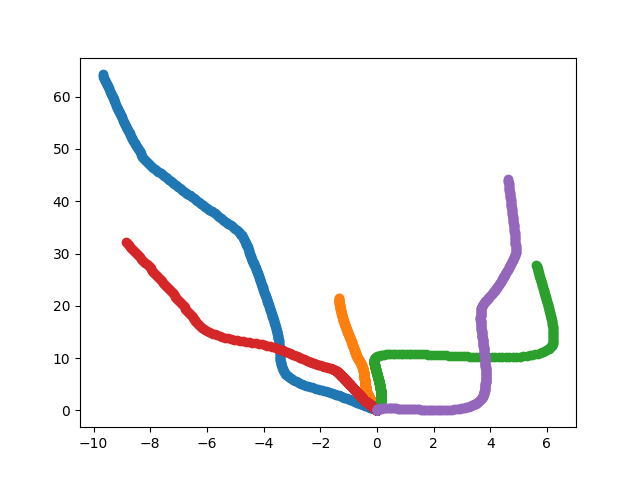
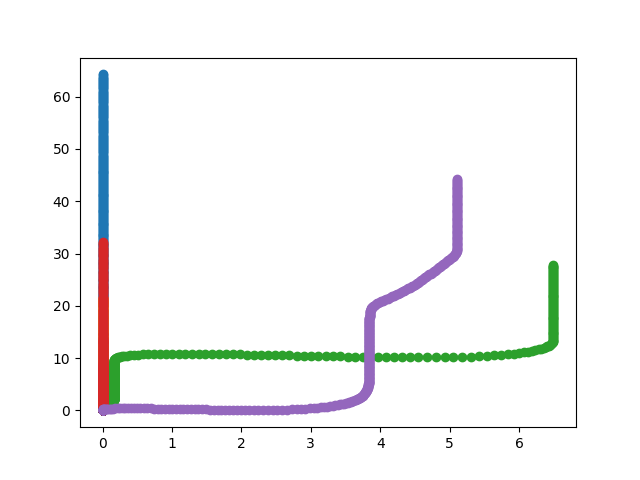
kalman filter class merged with main

diff --git a/algorithm/sensor_position_identifying.py b/algorithm/sensor_position_identifying.py
@@ -1,4 +1,5 @@
-from supportlib.data_types import Sensor, SensorData
+import numpy as np
+from supportlib.data_types import Sensor, SensorData, SensorPosition
 from supportlib.sensor_position_finding import SensorPositionFinder, SensorPositionRequester
 from algorithm.kinematics_model import Body
 from algorithm.kalman_filter import KalmanFilter
@@ -9,19 +10,41 @@ class SensorPositionIdentifier(SensorPositionFinder):
                  position_requester: SensorPositionRequester):
         super().__init__(position_requester)
         self.body = Body()
-        self.kalman_filter = KalmanFilter()
+        self.kalman_filter = dict()
+        self.sensor_positions = dict()
 
     def on_new_sensor_sample(self,
                              data_dict: dict[Sensor, SensorData]):
-        data_dict = self.kalman_filter.filter(data_dict)
+        
+        if len(self.kalman_filter) == 0:
+            self.on_first_row(data_dict)
 
         for sensor, sensor_data in data_dict.items():
+            self.iterate_kalman_filter(sensor, sensor_data)
+
             # TODO: identify the sensor position based on the sensor data
             sensor_position = None
 
             # TODO: call on_sensor_position_found when an unknown sensor position is identified
-            if sensor_position not in self.sensor_positions:
+            if sensor_position not in self.sensor_positions and isinstance(sensor_position, SensorPosition):
                 self.position_requester.on_sensor_position_found(sensor, sensor_position)
 
             # TODO: call on_finish when all sensor positions are identified
-            self.position_requester.on_finish()
+            # self.position_requester.on_finish()
+
+    def on_first_row(self, 
+                     data_dict: dict[Sensor, SensorData]):
+        for sensor in data_dict.keys():
+            self.kalman_filter[sensor] = (KalmanFilter(), KalmanFilter())
+
+    def iterate_kalman_filter(self, 
+                              sensor: Sensor, 
+                              sensor_data: SensorData):
+        self.kalman_filter[sensor][0].update_state_space_system(np.maximum(0., sensor_data[0][0]), 
+                                                sensor_data[1])
+        self.kalman_filter[sensor][1].update_state_space_system(-sensor_data[0][2], 
+                                                sensor_data[1])
+        for kalman_filter in self.kalman_filter[sensor]:
+            kalman_filter.predict()
+            kalman_filter.update()
+            kalman_filter.append_coordinates()

diff --git a/algorithm/kalman_filter.py b/algorithm/kalman_filter.py
@@ -13,16 +13,29 @@ class KalmanFilter:
     def __init__(self,
                  dt=0.02):
         """Define initial state conditions."""
+        self.dt = dt
         self.X = np.array([[0.0] , [0.0]])
         self.P = np.array([[999.0, 0.0] ,[0.0, 999.0]])
-        self.A = np.array([[1.0, dt], [0.0, 1.0]])
-        self.B = np.array([[0.5*dt**2], [dt]])
         self.H = np.array([[1.0, 0.0]])
         self.R = np.array([[1.0]])
         self.Q = np.array(np.eye(2)*5)
         self.Y = np.array([[0.]])
+        self.time = 0.0
+        self.coordinates = list()
+        self.upper_bound = list()
+        self.lower_bound = list()
 
-    def kf_predict(X, P, A, Q, B, U):
+    def update_state_space_system(self, vec_x, acc):
+        """Update state space system."""
+        self.time += self.dt
+        self.U = np.array([[acc]])
+        self.A = np.array([[1.0, self.dt*vec_x], [0.0, 1.0]])
+        self.B = np.array([[(0.5*self.dt**2)*vec_x], [self.dt]])
+
+    def update_measurement_estimate(self):
+        self.Y = self.H @ (self.A @ self.X + self.B @ self.U)
+    
+    def predict(self):
         """
         X : The mean state estimate of the previous step (k-1) - shape(m,1)
         P : The state covariance of previous step (k-1) - shape(m,m)
@@ -31,20 +44,22 @@ class KalmanFilter:
         B : The input effect matrix - shape(p, m)
         U : The control input - shape(q,1)
         """
-        X = A @ X + B @ U
-        P = A @ P @ A.T + Q
-        return(X,P)
+        self.X = self.A @ self.X + self.B @ self.U
+        self.P = self.A @ self.P @ self.A.T + self.Q
 
-    def kf_update(X, P, Y, H, R):
+    def update(self):
         """
         K : the Kalman Gain matrix
         IS : the Covariance or predictive mean of Y
         """
-        IS = H @ P @ H.T + R
-        K = P @ H.T @ inv(IS)
-        X = X + K @ (Y- H @ X)
-        P = P - K @ IS @ K.T
-        # P = P - K @ H @ P
-        return (X,P)
+        IS = self.H @ self.P @ self.H.T + self.R
+        K = self.P @ self.H.T @ inv(IS)
+        self.X = self.X + K @ (self.Y- self.H @ self.X)
+        # self.P = self.P - K @ IS @ K.T
+        self.P = self.P - K @ self.H @ self.P
     
+    def append_coordinates(self):
+        self.coordinates.append(self.X[0].item())
+        self.upper_bound.append(self.X[0].item()+sqrt(self.P[0][0]).item())
+        self.lower_bound.append(self.X[0].item()-sqrt(self.P[0][0]).item())
 

diff --git a/algorithm/kinematics_model.py b/algorithm/kinematics_model.py
@@ -52,5 +52,5 @@ class Body:
             elif limb.position == SensorPosition.CHEST:
                 for length in limb.lengths:
                     for _ in np.linspace(0, np.pi/2, 50):
-                        limb.movement.append((0.))
+                        limb.movement.append((0.)) # TODO: change chest coordinates to comply with kalman filter output
                         #TODO: add noise to the movement

diff --git a/algorithm/kalman_test.py b/algorithm/kalman_test.py
@@ -33,6 +33,7 @@ def kf_update(X, P, Y, H, R):
 #
 
 sensor_data = pd.read_csv('resources/sensor_data.csv')
+sensor_data['vec_x'] = sensor_data['vec_x'].apply(lambda x: 0. if x < 0. else x)
 
 for sensor in unique(sensor_data['sensor']):
     # ini state
